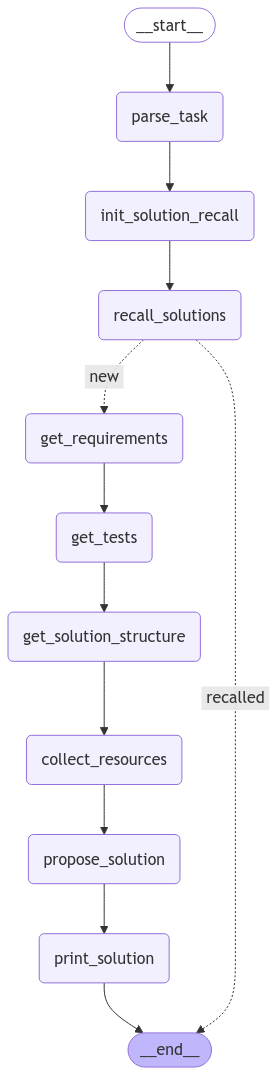
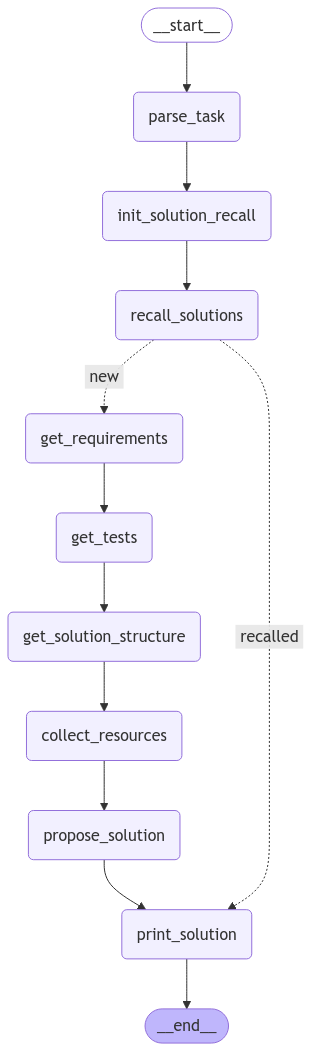
Create resources testing module

diff --git a/tool/__main__.py b/tool/__main__.py
@@ -36,7 +36,7 @@ builder.add_edge(START, "parse_task")
 builder.add_edge("parse_task", "init_solution_recall")
 builder.add_edge("init_solution_recall", "recall_solutions")
 builder.add_conditional_edges(
-    "recall_solutions", recalled_or_new, {"new": "get_requirements", "recalled": END}
+    "recall_solutions", recalled_or_new, {"new": "get_requirements", "recalled": "print_solution"}
 )
 builder.add_edge("get_requirements", "get_tests")
 builder.add_edge("get_tests", "get_solution_structure")
@@ -58,7 +58,7 @@ result = graph.invoke(
             HumanMessage(
                 content="""
                     Can you write for me a function that determines temperature distribution in a rod constantly heated on one side and cooled on the other?
-                    There are no heat losses or sources along the rod. Consider the rod one-dimensional. I assume some constant initial temperature along the rod.
+                    There are no heat losses or sources along the rod. Consider the rod one-dimensional. I assume constant initial temperature along the rod.
                 """
             )
         ]

diff --git a/tests/solution_proposer/resources/test_resources.py b/tests/solution_proposer/resources/test_resources.py
@@ -5,9 +5,10 @@ from tool.solution_proposer.resources import new_custom_database, collect_resour
 from tool.models import TaskWithSolutionStructure
 
 
-if os.path.exists("./tests/solution_proposer/test_data"):
-    shutil.rmtree("./tests/solution_proposer/test_data", ignore_errors=True)
-new_custom_database("./tests/solution_proposer/test_data")
+DB_PATH = "./tests/solution_proposer/resources/test_data"
+if os.path.exists(DB_PATH):
+    shutil.rmtree(DB_PATH, ignore_errors=True)
+new_custom_database(DB_PATH)
 
 
 task = TaskWithSolutionStructure(

diff --git a/docs/diary.md b/docs/diary.md
@@ -14,3 +14,4 @@ There will actually be two databases:
 
 11.12.2024
 The resource database should be in fact two databases - one for code, seconds for text.
+
